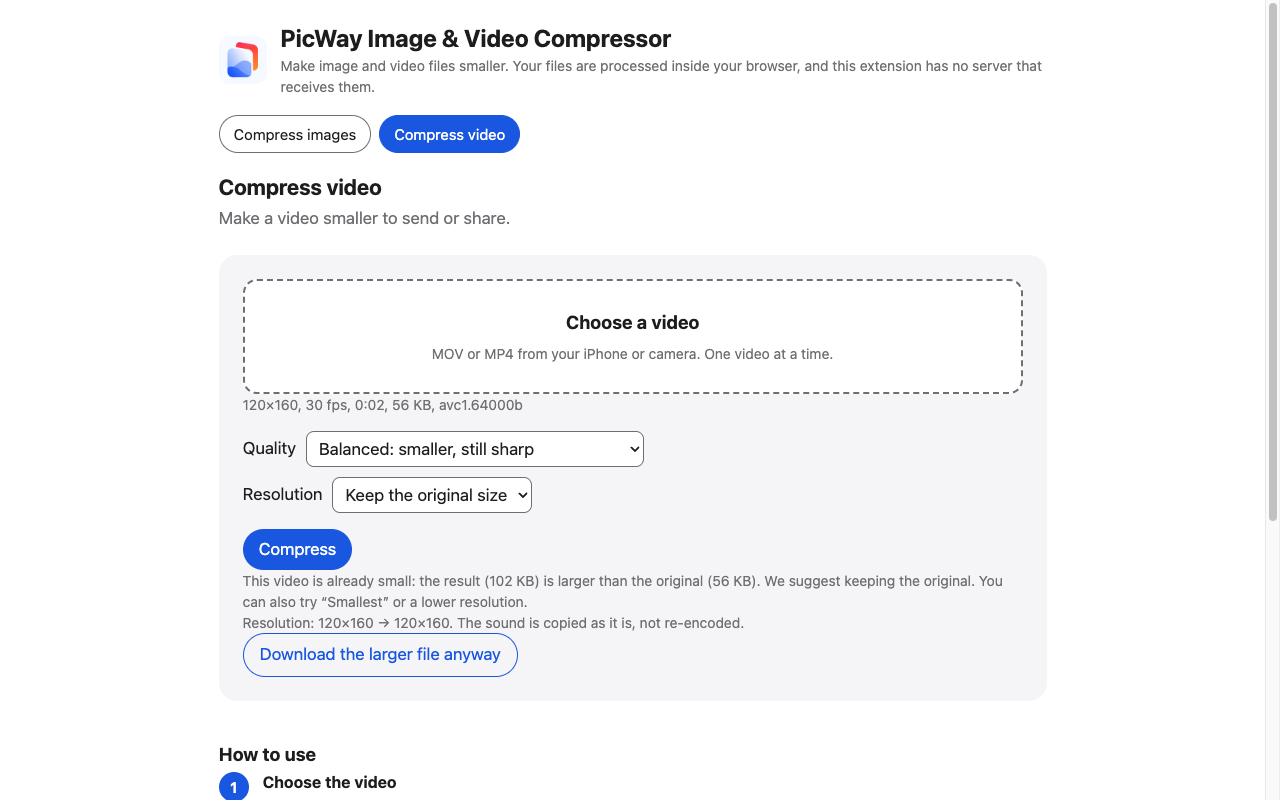
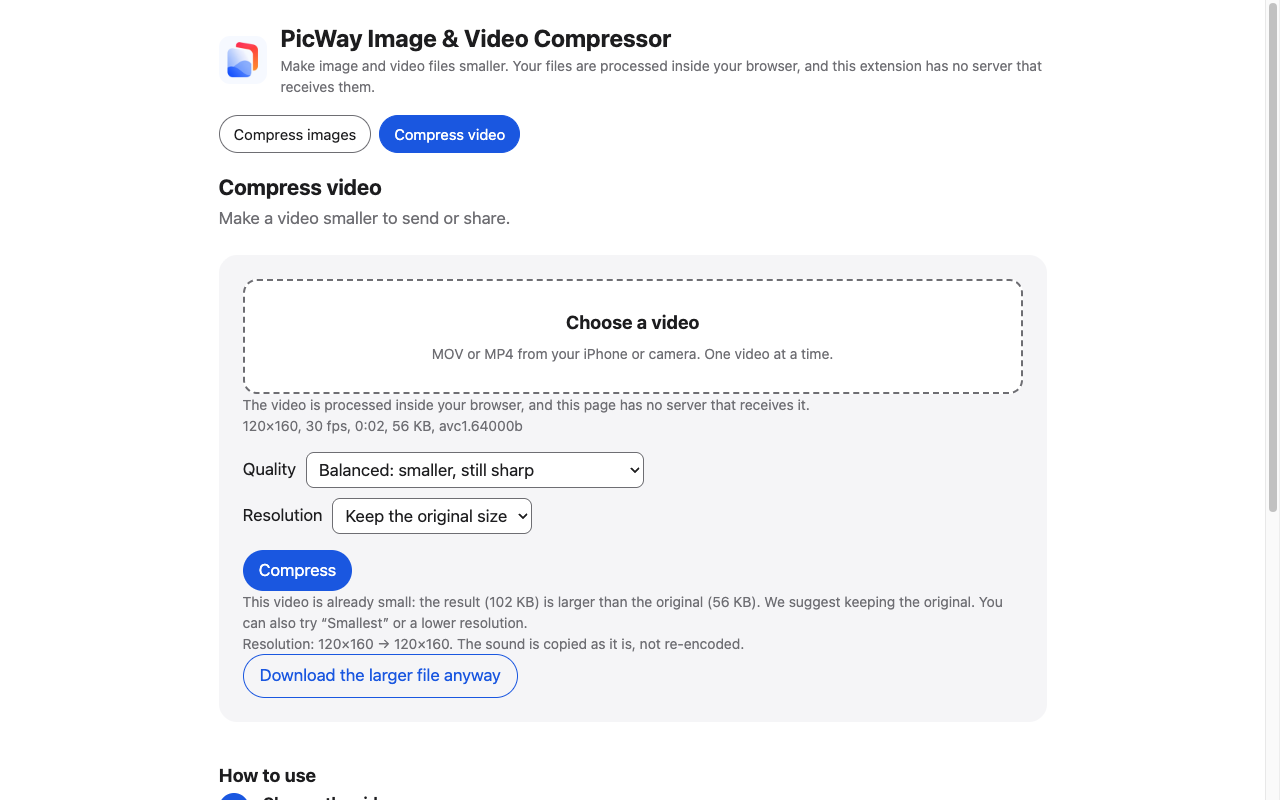
Extensions: ship libheif-js unmodified, tighten the page policy
- libheif-js is no longer bundled: the extensions load it from
  libheif/libheif-bundle.mjs, a byte-for-byte copy of the file in the
  libheif-js npm package, so it can be replaced with another build.
- The extension page policy now also sets default-src 'self' and
  style-src 'self' 'unsafe-inline' (the tools set style attributes).
- The GPL-3.0 text is added to the notices next to libheif-js when the
  repository has it.
- Build only the published tools; remove the unpublished tool list and
  its build switch, and their card text.
- README: say which code is MIT and that libraries keep their own
  licenses; links to picway.app open only when clicked.
- Store screenshots and listing data refreshed from this build.

Changed region(s): [[0.1875, 0.5, 0.7812, 0.875], [0.1562, 0.9375, 0.3125, 1.0], [0.4688, 0.5625, 0.5, 0.5938]]

diff --git a/extensions/README.md b/extensions/README.md
@@ -9,7 +9,7 @@ Four extensions for Chrome and Microsoft Edge that put the [PicWay web tools](ht
 | PicWay Photo Location & Metadata | View, change or remove the location and other metadata stored in photos. | Remove photo location, Edit photo metadata |
 | PicWay Photo Editor | Crop, resize, blur or pixelate, add a border or combine photos into a collage. | Crop image, Resize images, Blur image, Photo border, Photo collage |
 
-Click an extension's toolbar button to open its tools page in a new tab, or to switch to that tab if it is already open. On the page, each tool has its own tab. Each tool does the same job as its page on picway.app. One difference: in the extension, Edit photo metadata has no map or place search, so you type or paste the coordinates.
+Click an extension's toolbar button to open its tools page in a new tab, or to switch to that tab if it is already open. On the page, each tool has its own tab. Each tool does the same job as its page on picway.app. One difference: in the extension, Edit photo metadata has no map or place search, so you type or paste the coordinates. Links to picway.app open in a new tab only when you click them.
 
 ## How it is built
 
@@ -43,4 +43,4 @@ PicWay is an iPhone app for sorting your photos. Swipe left or right to decide w
 
 ## License
 
-MIT, like the rest of this repository. Each extension package includes `third-party-notices.txt`, made from `THIRD_PARTY_NOTICES.md` and the `licenses/` folder at the root of this repository, for the libraries that extension bundles.
+PicWay’s own code is MIT-licensed (`LICENSE` at the root of this repository). The libraries each extension bundles keep their own licenses. libheif-js (LGPL-3.0) is shipped unmodified as its own file, `libheif/libheif-bundle.mjs`; see “In the browser extensions” in `THIRD_PARTY_NOTICES.md`. Each extension package includes `third-party-notices.txt`, made from `THIRD_PARTY_NOTICES.md` and the `licenses/` folder at the root of this repository, for the libraries that extension bundles.
